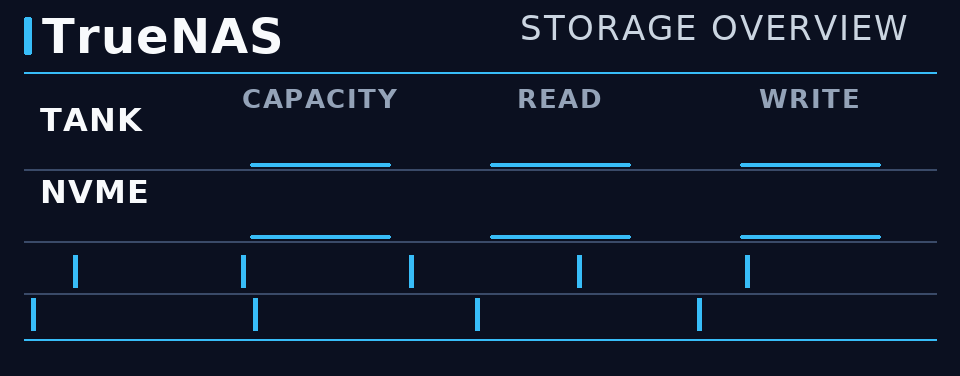
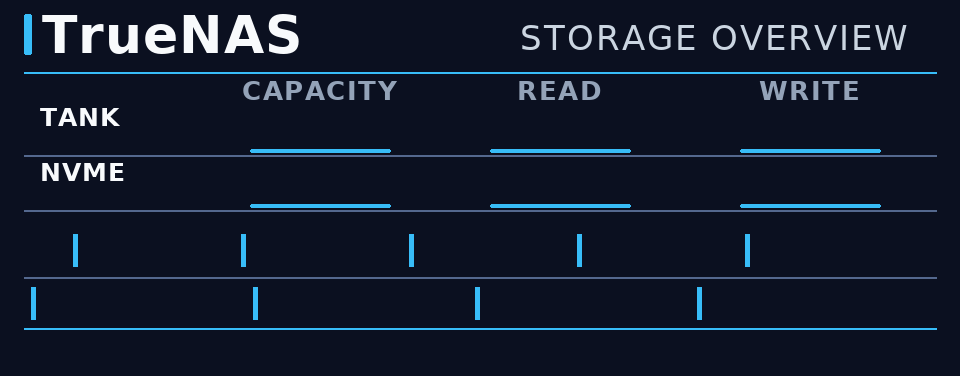
Tighten TANK/NVME rows further; more room for disk-temp grid + footer gap; brighter dividers
- TANK/NVME band (divider-to-divider) 72->55: row label 32->25pt,
  capacity-detail 26->20pt, CAPACITY% 40->31pt, READ/WRITE 36->28pt,
  header 108->100. Every junction re-verified with tools/pixel-probe
  (tightest: bar-to-divider, 3px, matching this page's existing
  proven-safe pattern).
- Freed ~31px handed to the disk-temp grid and the gap above the footer:
  NVME-divider-to-row1 clearance 16px->27px, row1-to-row2 16px->26px,
  footer-divider-to-footer clearance 9px->20px ("a little space above
  the bottom row").
- DIVIDER color brightened #3a4a68->#546c8e across all 3 main pages'
  generators (every gray horizontal rule).
- Also included: the footer-word shortening from the NVMe-degraded demo
  earlier this session (dropped the "NVME "/pool-name prefix, since the
  alert-interrupt page this same tier change triggers already identifies
  which pool, and the prefix was colliding with the moved date/time text).

diff --git a/scripts/render-storage-bg.py b/scripts/render-storage-bg.py
@@ -19,7 +19,7 @@ WHITE = (248, 250, 252)    # #f8fafc
 KICKER = (148, 163, 184)   # #94a3b8 (bumped from #64748b 2026-07-29, brighter per user request)
 PAGE_LABEL = (203, 213, 225) # #cbd5e1, brighter than KICKER (page title, top right)
 LABEL = (148, 163, 184)    # #94a3b8
-DIVIDER = (58, 74, 104)    # #3a4a68
+DIVIDER = (84, 104, 142)   # #546c8e, brightened from #3a4a68 (2026-08-17)
 
 FONT_DIR = "/usr/share/fonts/truetype/dejavu"
 bold = lambda sz: ImageFont.truetype(f"{FONT_DIR}/DejaVuSans-Bold.ttf", sz)
@@ -65,9 +65,9 @@ def draw_spaced(xy, text, font, fill, spacing=0, anchor_end=False, anchor_middle
 # render-system-bg.py/render-container-bg.py so all three main pages
 # match (NOT render-alert-bg.py, which deliberately keeps its own
 # inverted red/amber hazard scheme, never blue).
-d.rounded_rectangle((24, 17, 24 + 7, 17 + 37), radius=2, fill=ACCENT)
-draw_spaced((42, 53), "TrueNAS", bold(48), WHITE, spacing=1)
-draw_spaced((910, 40), "STORAGE OVERVIEW", reg(34), PAGE_LABEL, spacing=2, anchor_end=True)
+d.rounded_rectangle((24, 14, 24 + 7, 14 + 40), radius=2, fill=ACCENT)
+draw_spaced((42, 53), "TrueNAS", bold(52), WHITE, spacing=1)
+draw_spaced((910, 50), "STORAGE OVERVIEW", reg(34), PAGE_LABEL, spacing=2, anchor_end=True)
 d.line((24, 72, 936, 72), fill=ACCENT, width=2)
 
 # Rows reworked 2026-08-15 into one row per pool (TANK, NVME) instead of 4
@@ -157,11 +157,17 @@ d.line((24, 72, 936, 72), fill=ACCENT, width=2)
 # of y). The real constraint is the header's own column vs the CAPACITY%/
 # READ/WRITE values below it in that SAME x -- ~13px real clearance to
 # those at the new position, still comfortable.
-row_label_font = bold(32)
+# 21st pass (2026-08-17): TANK/NVME band tightened further (divider-to-
+# divider 72->55) and the whole block moved up (header 108->100) to free
+# more room for the disk-temp grid + footer gap below -- same proportional
+# scaling method as the 10th pass, re-verified with tools/pixel-probe
+# (tightest new junction: bar-to-divider, 3px, matching this page's
+# existing proven-safe pattern).
+row_label_font = bold(25)
 col_header_font = bold(26)
 COL_X = {"CAPACITY": 320, "READ": 560, "WRITE": 810}
 BAR_HALF_WIDTH = 70
-HEADER_Y = 108
+HEADER_Y = 100
 
 for text, x in COL_X.items():
     draw_spaced((x, HEADER_Y), text, col_header_font, LABEL, spacing=1.5, anchor_middle=True)
@@ -174,8 +180,8 @@ for text, x in COL_X.items():
 # 17th pass (2026-08-17): "slightly too much" -- nudged back up 3px
 # (131/203). Clearance to the detail text below grows to 9px.
 for row_label, label_y, bar_y, divider_y in (
-    ("TANK", 131, 163, 169),
-    ("NVME", 203, 235, 241),
+    ("TANK", 126, 149, 155),
+    ("NVME", 181, 204, 210),
 ):
     draw_spaced((40, label_y), row_label, row_label_font, WHITE, spacing=1)
     for x in COL_X.values():
@@ -239,8 +245,8 @@ for row_label, label_y, bar_y, divider_y in (
 TICK_HALF_HEIGHT = 16
 TICK_WIDTH = 5
 for row_y, disk_name_xs in (
-    (271, [82, 250, 418, 586, 754]),   # tank: disk1..5_name
-    (314, [40, 262, 484, 706]),        # nvme: nvme_disk1..4_name
+    (250, [82, 250, 418, 586, 754]),   # tank: disk1..5_name
+    (303, [40, 262, 484, 706]),        # nvme: nvme_disk1..4_name
 ):
     for name_x in disk_name_xs:
         tick_x = name_x - 7
@@ -252,7 +258,7 @@ for row_y, disk_name_xs in (
 # between the two rows' worst-case ink (row1 bottom 284.67, row2 top 301
 # at fontSize 30/26 -- verified with tools/pixel-probe), giving ~8px
 # clearance to each row, matching this page's other divider junctions.
-d.line((24, 293, 936, 293), fill=DIVIDER, width=2)
+d.line((24, 277, 936, 277), fill=DIVIDER, width=2)
 
 # 20th pass (2026-08-17): divider above the footer row, ACCENT (blue,
 # matching the rest of this page's lines) -- same treatment applied to
@@ -263,7 +269,7 @@ d.line((24, 293, 936, 293), fill=DIVIDER, width=2)
 # this page's own nvme temp row, ink bottom 327.67) by ~10px, with ~9px
 # to the footer's own topmost ink (348.33) -- verified with
 # tools/pixel-probe against each page's worst-case content.
-d.line((24, 339, 936, 339), fill=ACCENT, width=2)
+d.line((24, 328, 936, 328), fill=ACCENT, width=2)
 
 # Footer: entirely live monitor.json sensor fields -- status dot+text
 # (left), date_time (center), ip_address (right). Nothing left to draw

diff --git a/scripts/render-system-bg.py b/scripts/render-system-bg.py
@@ -21,7 +21,7 @@ WHITE = (248, 250, 252)    # #f8fafc
 KICKER = (148, 163, 184)   # #94a3b8
 PAGE_LABEL = (203, 213, 225) # #cbd5e1, brighter than KICKER (page title, top right)
 LABEL = (148, 163, 184)    # #94a3b8
-DIVIDER = (58, 74, 104)    # #3a4a68
+DIVIDER = (84, 104, 142)   # #546c8e, brightened from #3a4a68 (2026-08-17)
 
 FONT_DIR = "/usr/share/fonts/truetype/dejavu"
 bold = lambda sz: ImageFont.truetype(f"{FONT_DIR}/DejaVuSans-Bold.ttf", sz)
@@ -58,9 +58,9 @@ def draw_spaced(xy, text, font, fill, spacing=0, anchor_end=False, anchor_middle
 # hazard scheme). Accent bar's y-span recomputed from the real ink bbox
 # at the new TrueNAS size (17-54, was 18-53) so it still exactly brackets
 # the text.
-d.rounded_rectangle((24, 17, 24 + 7, 17 + 37), radius=2, fill=ACCENT)
-draw_spaced((42, 53), "TrueNAS", bold(48), WHITE, spacing=1)
-draw_spaced((910, 40), "SYSTEM OVERVIEW", reg(34), PAGE_LABEL, spacing=2, anchor_end=True)
+d.rounded_rectangle((24, 14, 24 + 7, 14 + 40), radius=2, fill=ACCENT)
+draw_spaced((42, 53), "TrueNAS", bold(52), WHITE, spacing=1)
+draw_spaced((910, 50), "SYSTEM OVERVIEW", reg(34), PAGE_LABEL, spacing=2, anchor_end=True)
 d.line((24, 72, 936, 72), fill=ACCENT, width=2)
 
 # Row 1: CPU/GPU/MEMORY/POOL (2026-07-31, GPU moved next to CPU). Row 2
@@ -88,7 +88,7 @@ for x, text in [(130, "DOWNLOAD"), (366, "UPLOAD"), (603, "CONNECTIONS"), (839, 
 # treatment across all 4 pages (alert uses its own DARK_TEXT instead),
 # see render-storage-bg.py's same-day comment for the y=339 derivation
 # (clears the lowest content on any page, ~9-10px clearance each side).
-d.line((24, 339, 936, 339), fill=ACCENT, width=2)
+d.line((24, 328, 936, 328), fill=ACCENT, width=2)
 
 # Footer: entirely live monitor.json sensor fields, nothing to draw here.
 

diff --git a/scripts/render-container-bg.py b/scripts/render-container-bg.py
@@ -23,7 +23,7 @@ WHITE = (248, 250, 252)    # #f8fafc
 KICKER = (148, 163, 184)   # #94a3b8
 PAGE_LABEL = (203, 213, 225) # #cbd5e1, brighter than KICKER (page title, top right)
 LABEL = (148, 163, 184)    # #94a3b8
-DIVIDER = (58, 74, 104)    # #3a4a68
+DIVIDER = (84, 104, 142)   # #546c8e, brightened from #3a4a68 (2026-08-17)
 
 FONT_DIR = "/usr/share/fonts/truetype/dejavu"
 bold = lambda sz: ImageFont.truetype(f"{FONT_DIR}/DejaVuSans-Bold.ttf", sz)
@@ -60,9 +60,9 @@ def draw_spaced(xy, text, font, fill, spacing=0, anchor_end=False, anchor_middle
 # hazard scheme). Accent bar's y-span recomputed from the real ink bbox
 # at the new TrueNAS size (17-54, was 18-53) so it still exactly brackets
 # the text.
-d.rounded_rectangle((24, 17, 24 + 7, 17 + 37), radius=2, fill=ACCENT)
-draw_spaced((42, 53), "TrueNAS", bold(48), WHITE, spacing=1)
-draw_spaced((910, 40), "CONTAINER OVERVIEW", reg(34), PAGE_LABEL, spacing=2, anchor_end=True)
+d.rounded_rectangle((24, 14, 24 + 7, 14 + 40), radius=2, fill=ACCENT)
+draw_spaced((42, 53), "TrueNAS", bold(52), WHITE, spacing=1)
+draw_spaced((910, 50), "CONTAINER OVERVIEW", reg(34), PAGE_LABEL, spacing=2, anchor_end=True)
 d.line((24, 72, 936, 72), fill=ACCENT, width=2)
 
 # Row 1 labels + blue bars -- centered 2026-07-31 at each column's center
@@ -82,7 +82,7 @@ draw_spaced((45, 211), "STATUS", label_font, LABEL, spacing=1.5)
 # treatment across all 4 pages (alert uses its own DARK_TEXT instead),
 # see render-storage-bg.py's same-day comment for the y=339 derivation
 # (clears the lowest content on any page, ~9-10px clearance each side).
-d.line((24, 339, 936, 339), fill=ACCENT, width=2)
+d.line((24, 328, 936, 328), fill=ACCENT, width=2)
 
 # Footer: entirely live monitor.json sensor fields, nothing to draw here.
 
